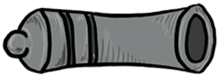
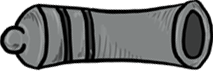
Cannon angle now matches setting, ball scaling properly

diff --git a/src/Topics/Physics.HomogenousMovement/Rendering/GamificationCanvasController.cs b/src/Topics/Physics.HomogenousMovement/Rendering/GamificationCanvasController.cs
@@ -12,6 +12,7 @@ using Microsoft.Graphics.Canvas.Effects;
 using Physics.HomogenousMovement.Gamification;
 using Physics.Shared.Helpers;
 using Color = Windows.UI.Color;
+using Windows.UI;
 
 namespace Physics.HomogenousMovement.Rendering
 {
@@ -30,6 +31,12 @@ namespace Physics.HomogenousMovement.Rendering
         private CanvasBitmap[] _treeImages;
 
         private GameSetup _game = null;
+
+        public float CannonAngle { get; internal set; }
+
+        protected override Color XMeasureColor => Colors.White;
+
+        protected override Color YMeasureColor => Colors.Transparent;
 
         public GamificationCanvasController(CanvasAnimatedControl canvasAnimatedControl) : base(canvasAnimatedControl)
         {
@@ -80,7 +87,12 @@ namespace Physics.HomogenousMovement.Rendering
 
         protected override void DrawBall(CanvasAnimatedDrawEventArgs args, Vector2 centerPoint, Color movementColor)
         {
-            args.DrawingSession.DrawImage(_ballImage, centerPoint.X - (float)_ballImage.Size.Width / 2, centerPoint.Y - (float)_ballImage.Size.Height / 2);
+            var scaledImage = new ScaleEffect()
+            {
+                Source = _ballImage,
+                Scale = new Vector2((float)(_meterSizeInPixels * 1f / _ballImage.Size.Width))
+            };
+            args.DrawingSession.DrawImage(scaledImage, centerPoint.X - (float)_ballImage.Size.Width / 2, centerPoint.Y - (float)_ballImage.Size.Height / 2);
         }
 
         protected override void DrawBackground(ICanvasAnimatedControl sender, CanvasAnimatedDrawEventArgs args)
@@ -91,9 +103,26 @@ namespace Physics.HomogenousMovement.Rendering
             if (_game != null)
             {
                 DrawTrees(sender, args);
-                DrawCannon(sender, args, -45);
                 DrawCastle(sender, args);
                 DrawWall(sender, args);
+                DrawBackStand(sender, args);
+            }
+        }
+
+        private void DrawBackStand(ICanvasAnimatedControl sender, CanvasAnimatedDrawEventArgs args)
+        {
+        }
+        
+        private void DrawFrontStand()
+        {
+        }
+
+        protected override void DrawOverlay(ICanvasAnimatedControl sender, CanvasAnimatedDrawEventArgs args)
+        {
+            if (_game != null)
+            {
+                DrawCannon(sender, args, -45);
+                DrawFrontStand();
             }
         }
 
@@ -158,13 +187,15 @@ namespace Physics.HomogenousMovement.Rendering
                 Source = _cannonImage,
                 Scale = new Vector2((float)(_meterSizeInPixels * 4f / _cannonImage.Size.Width))
             };
+            var rotate = new Transform2DEffect()
+            {
+                Source = scaledImage,
+                TransformMatrix = Matrix3x2.CreateRotation(MathHelpers.DegreesToRadians(-CannonAngle))
+            };            
             args.DrawingSession.DrawImage(
-                scaledImage,
+                (ICanvasImage)rotate,
                 SimulationLeftSidePadding,
-                (float)sender.Size.Height - SimulationLeftSidePadding,
-                new Rect(0, 0, (float)(scaledImage.Scale.X * _cannonImage.Size.Width), (float)(scaledImage.Scale.Y * _cannonImage.Size.Height)),
-                1,
-                CanvasImageInterpolation.Cubic);
+                (float)sender.Size.Height - SimulationPadding);              
         }
     }
 }

diff --git a/src/Topics/Physics.HomogenousMovement/Rendering/HomogenousMovementCanvasController.cs b/src/Topics/Physics.HomogenousMovement/Rendering/HomogenousMovementCanvasController.cs
@@ -19,6 +19,7 @@ using Physics.HomogenousMovement.Logic.PhysicsServices;
 using Physics.HomogenousMovement.ViewModels;
 using System.Collections.Generic;
 using Microsoft.Toolkit.Uwp.Helpers;
+using Windows.UI.Xaml;
 
 namespace Physics.HomogenousMovement.Rendering
 {
@@ -35,6 +36,9 @@ namespace Physics.HomogenousMovement.Rendering
 
         protected int SimulationPadding { get; set; } = 52;
         protected int SimulationLeftSidePadding { get; set; } = 80;
+
+        protected virtual Windows.UI.Color XMeasureColor => Windows.UI.Colors.Black;
+        protected virtual Windows.UI.Color YMeasureColor => Windows.UI.Colors.Black;
 
         //private ICanvasBrush _backgroundBrush;
         //private CanvasBitmap _skyImage;
@@ -169,14 +173,22 @@ namespace Physics.HomogenousMovement.Rendering
             DrawXMeasure(sender, args);
 
 
-            if (_trajectories.Length == 0) return;
+            if (_trajectories.Length > 0)
+            {
+                DrawTrajectories(sender, args);
+            }
 
-            DrawTrajectories(sender, args);
+            DrawOverlay(sender, args);
         }
 
         protected virtual void DrawBackground(ICanvasAnimatedControl sender, CanvasAnimatedDrawEventArgs args)
         {
             args.DrawingSession.Clear(Windows.UI.Color.FromArgb(255, 244, 244, 244));
+        }
+
+        protected virtual void DrawOverlay(ICanvasAnimatedControl sender, CanvasAnimatedDrawEventArgs args)
+        {
+            
         }
 
         private void DrawTrajectories(ICanvasAnimatedControl sender, CanvasAnimatedDrawEventArgs args)
@@ -244,7 +256,7 @@ namespace Physics.HomogenousMovement.Rendering
                     _simulationBoundsInPixels.Bottom - _meterSizeInPixels * currentHeight,
                     SimulationLeftSidePadding + 3,
                     _simulationBoundsInPixels.Bottom - _meterSizeInPixels * currentHeight,
-                    Colors.Black);
+                    YMeasureColor);
 
                 drawing.DrawText(
                     currentHeight.ToString("0.#"),
@@ -253,7 +265,7 @@ namespace Physics.HomogenousMovement.Rendering
                         _simulationBoundsInPixels.Bottom - _meterSizeInPixels * currentHeight,
                         SimulationLeftSidePadding,
                         100),
-                    Colors.Black,
+                    YMeasureColor,
                     _yAxisFormat);
             }
         }
@@ -272,13 +284,13 @@ namespace Physics.HomogenousMovement.Rendering
                     _simulationBoundsInPixels.Bottom - 3,
                     _simulationBoundsInPixels.Left + _meterSizeInPixels * currentDistance,
                     _simulationBoundsInPixels.Bottom + 3,
-                    Colors.Black);
+                    XMeasureColor);
 
                 drawing.DrawText(
                     (currentDistance + _simulationBoundsInMeters.Left).ToString("0.#"),
                     _simulationBoundsInPixels.Left + _meterSizeInPixels * currentDistance,
                     _simulationBoundsInPixels.Bottom + 12,
-                    Colors.Black,
+                    XMeasureColor,
                     _yAxisFormat);
             }
         }

diff --git a/src/Topics/Physics.HomogenousMovement/ViewModels/GameViewModel.cs b/src/Topics/Physics.HomogenousMovement/ViewModels/GameViewModel.cs
@@ -33,6 +33,11 @@ namespace Physics.HomogenousMovement.ViewModels
         {
         }
 
+        public override async Task Initialize()
+        {
+            await StartNewGameAsync();
+        }
+
         public float V0
         {
             get => _v0;
@@ -54,9 +59,15 @@ namespace Physics.HomogenousMovement.ViewModels
                 if (!float.IsNaN(value) && value != _angle)
                 {
                     _angle = value;
+                    UpdateControllerAngle();
                     RaisePropertyChanged();
                 }
             }
+        }
+
+        private void UpdateControllerAngle()
+        {
+            _gameController.CannonAngle = Angle;
         }
 
         public float Gravity
@@ -105,7 +116,7 @@ namespace Physics.HomogenousMovement.ViewModels
         }
 
         private async Task StartNewGameAsync()
-        {
+        {            
             var castleDistance = _randomizer.Next(25, 50);
             var treeCount = _randomizer.Next(2, 6);
             var treeDistances = new List<int>();
@@ -114,6 +125,7 @@ namespace Physics.HomogenousMovement.ViewModels
                 treeDistances.Add(_randomizer.Next(0, castleDistance));
             }
             await _gameController.StartNewGameAsync(new GameSetup(castleDistance, _randomizer.Next(5, castleDistance), treeDistances.ToArray()));
+            _gameController.CannonAngle = Angle;
         }
     }
 }

diff --git a/src/Topics/Physics.HomogenousMovement/Views/GameView.xaml.cs b/src/Topics/Physics.HomogenousMovement/Views/GameView.xaml.cs
@@ -60,8 +60,12 @@ namespace Physics.HomogenousMovement.Views
 
         private void MainMenuView_DataContextChanged(FrameworkElement sender, DataContextChangedEventArgs args)
         {
-            Model = (GameViewModel)args.NewValue;
-            Model.SetViewInteraction(this);
+            var model = (GameViewModel)args.NewValue;
+            if (Model != model)
+            {
+                Model = model;
+                Model.SetViewInteraction(this);
+            }
         }
 
         private void Pause_Click(object sender, RoutedEventArgs e)

diff --git a/src/Topics/Physics.HomogenousMovement/Views/MainView.xaml.cs b/src/Topics/Physics.HomogenousMovement/Views/MainView.xaml.cs
@@ -60,8 +60,12 @@ namespace Physics.HomogenousMovement
 
         private void MainMenuView_DataContextChanged(FrameworkElement sender, DataContextChangedEventArgs args)
         {
-            Model = (MainViewModel)args.NewValue;
-            Model.SetViewInteraction(this);
+            var model = (MainViewModel)args.NewValue;
+            if (Model != model)
+            {
+                Model = model;
+                Model.SetViewInteraction(this);
+            }
         }
 
         private void Pause_Click(object sender, RoutedEventArgs e)
